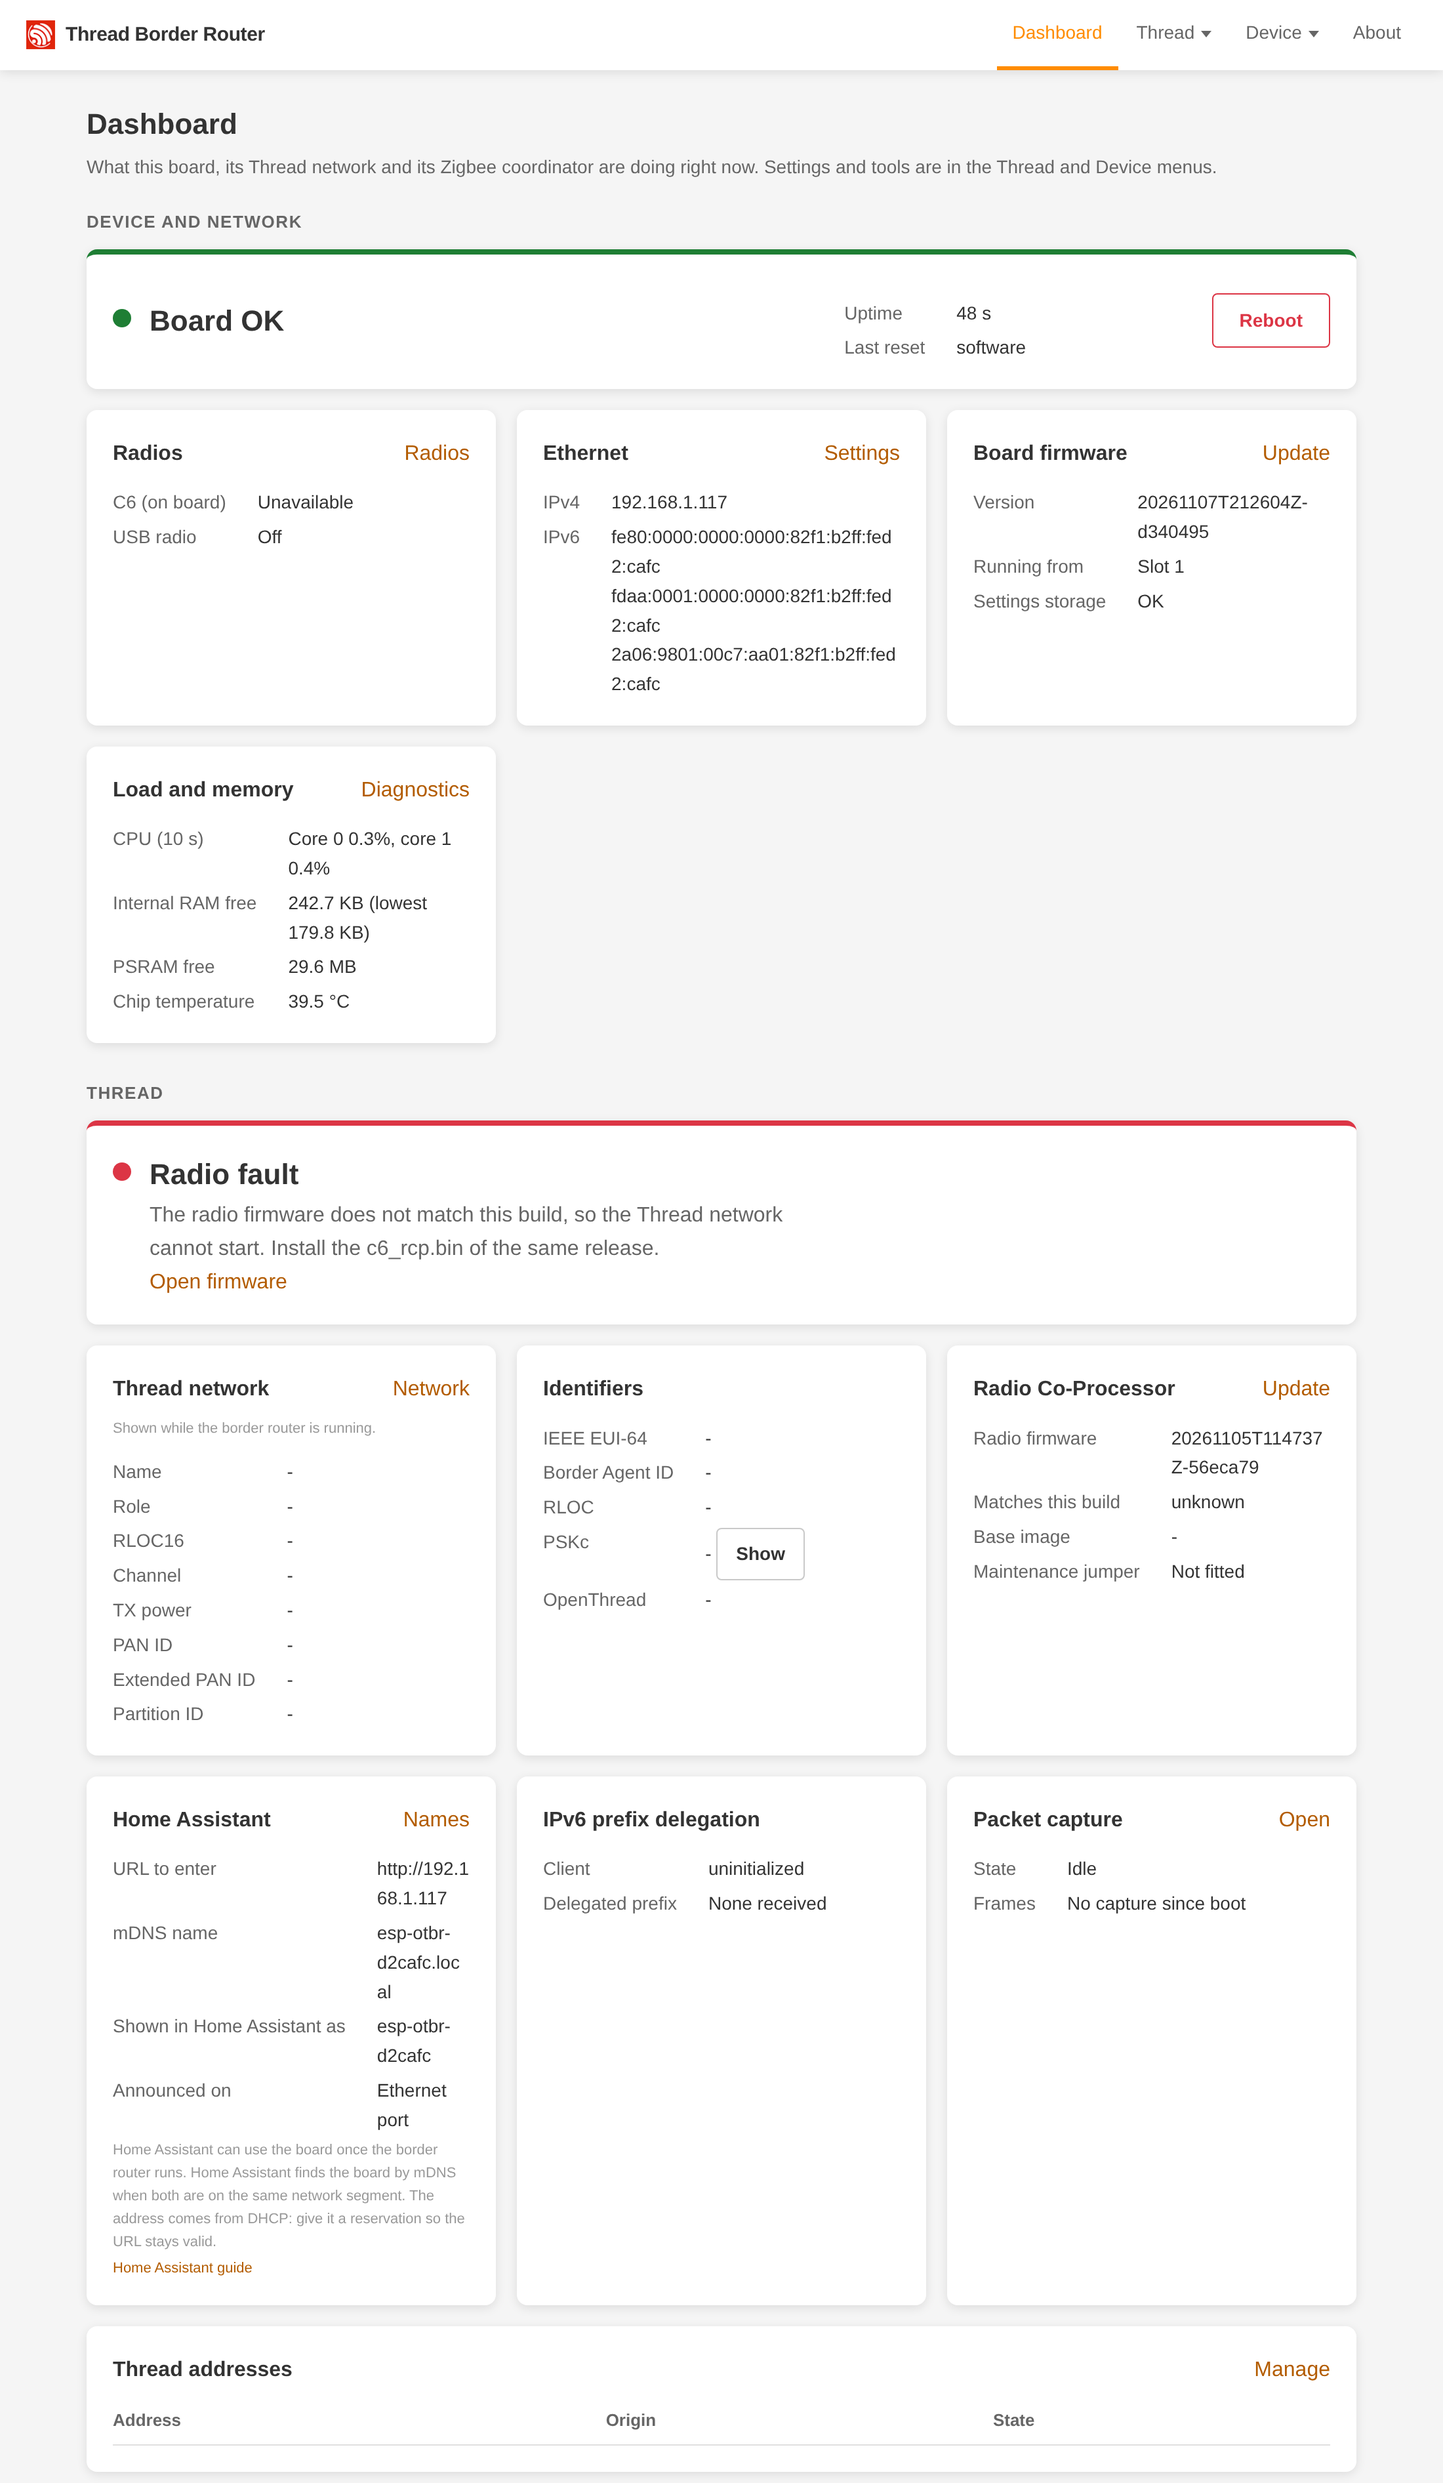
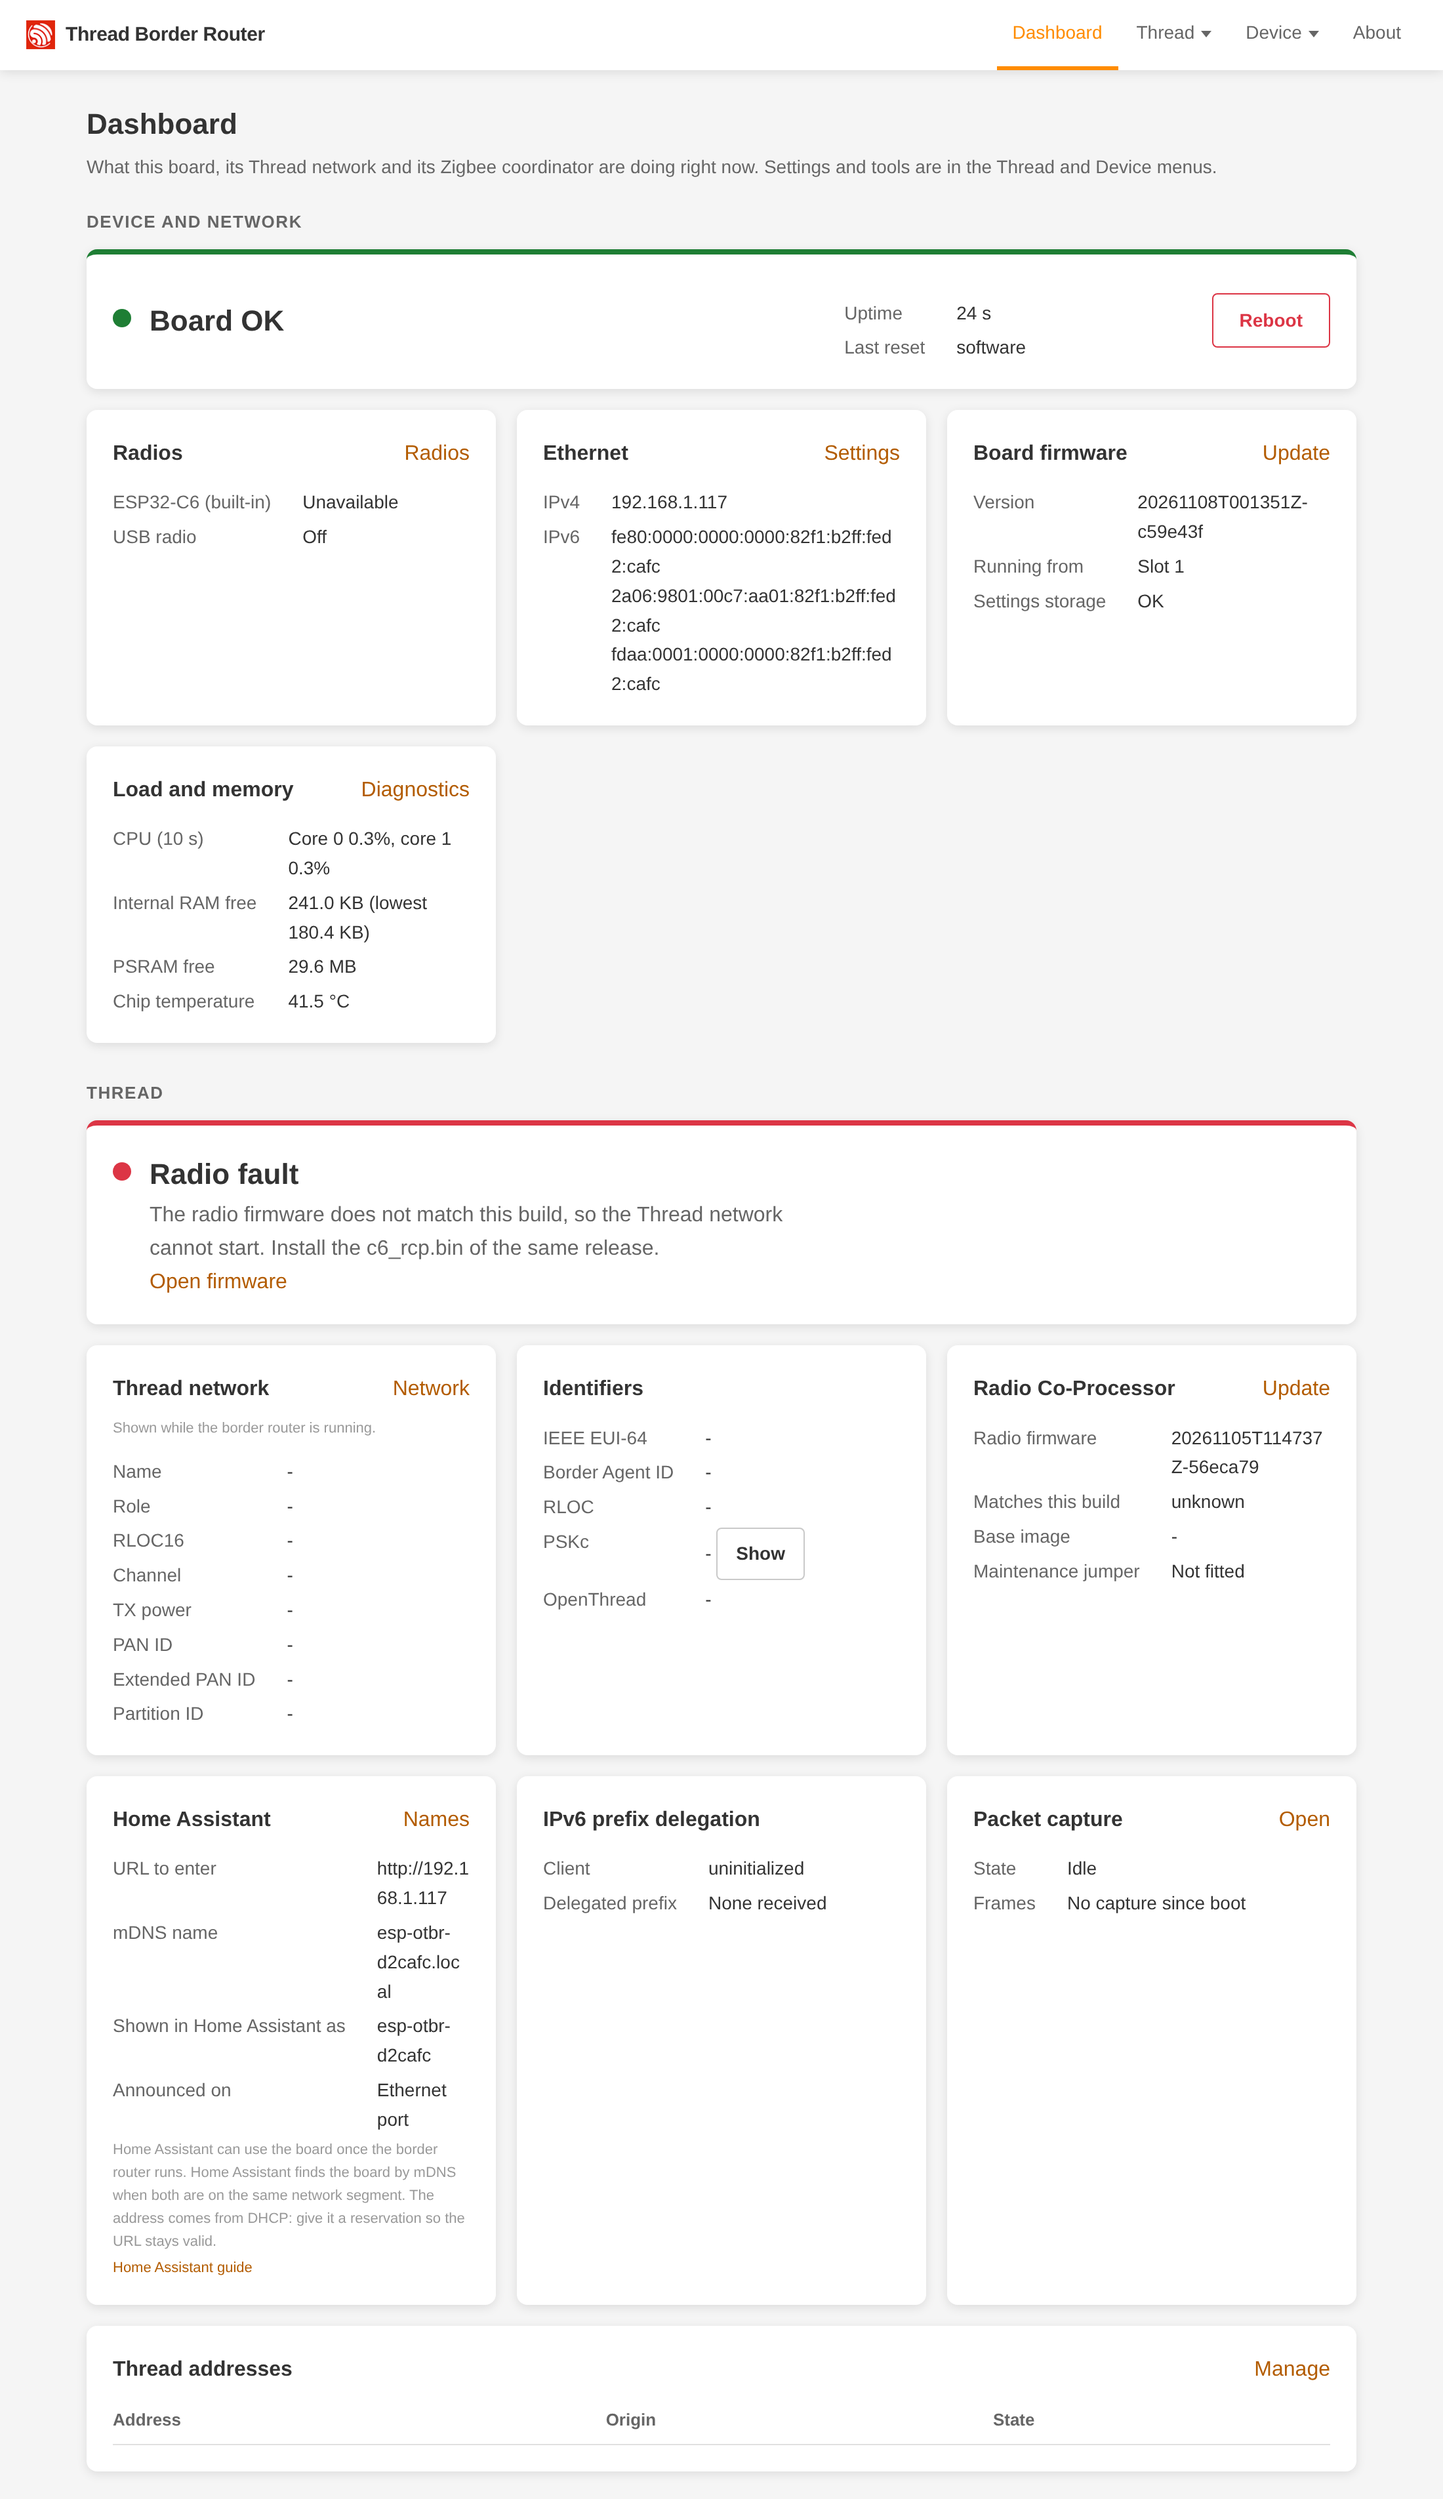
docs: Dashboard screenshots on c59e43f, the C6 named ESP32-C6 (built-in)
Retaken from the board's /index.html after the rename: Zigbee on the C6
with ZHA connected, and the Thread radio fault (C6 held in reset).

diff --git a/docs/troubleshooting.md b/docs/troubleshooting.md
@@ -9,7 +9,7 @@ The Dashboard shows the fault in red, with what to do and a link to the page tha
 the whole board (`storage unavailable`, `esp-hosted firmware`, `no rcp firmware`) shows on the Device and network
 line; the others show in the Thread section, as here with the C6 held in reset:
 
-<img src="images/dashboard-radio-fault.png" width="640" alt="Dashboard in RADIO_FAULT with fault_reason rcp incompatible: Device and network still says Board OK and the Radios card lists the C6 as Unavailable; the Thread section shows Radio fault in red, the radio firmware does not match this build, install the c6_rcp.bin of the same release, with a link to the Firmware page; the Thread cards are empty">
+<img src="images/dashboard-radio-fault.png" width="640" alt="Dashboard in RADIO_FAULT with fault_reason rcp incompatible: Device and network still says Board OK and the Radios card lists the ESP32-C6 (built-in) as Unavailable; the Thread section shows Radio fault in red, the radio firmware does not match this build, install the c6_rcp.bin of the same release, with a link to the Firmware page; the Thread cards are empty">
 
 | `fault_reason` | Meaning and fix |
 | --- | --- |
